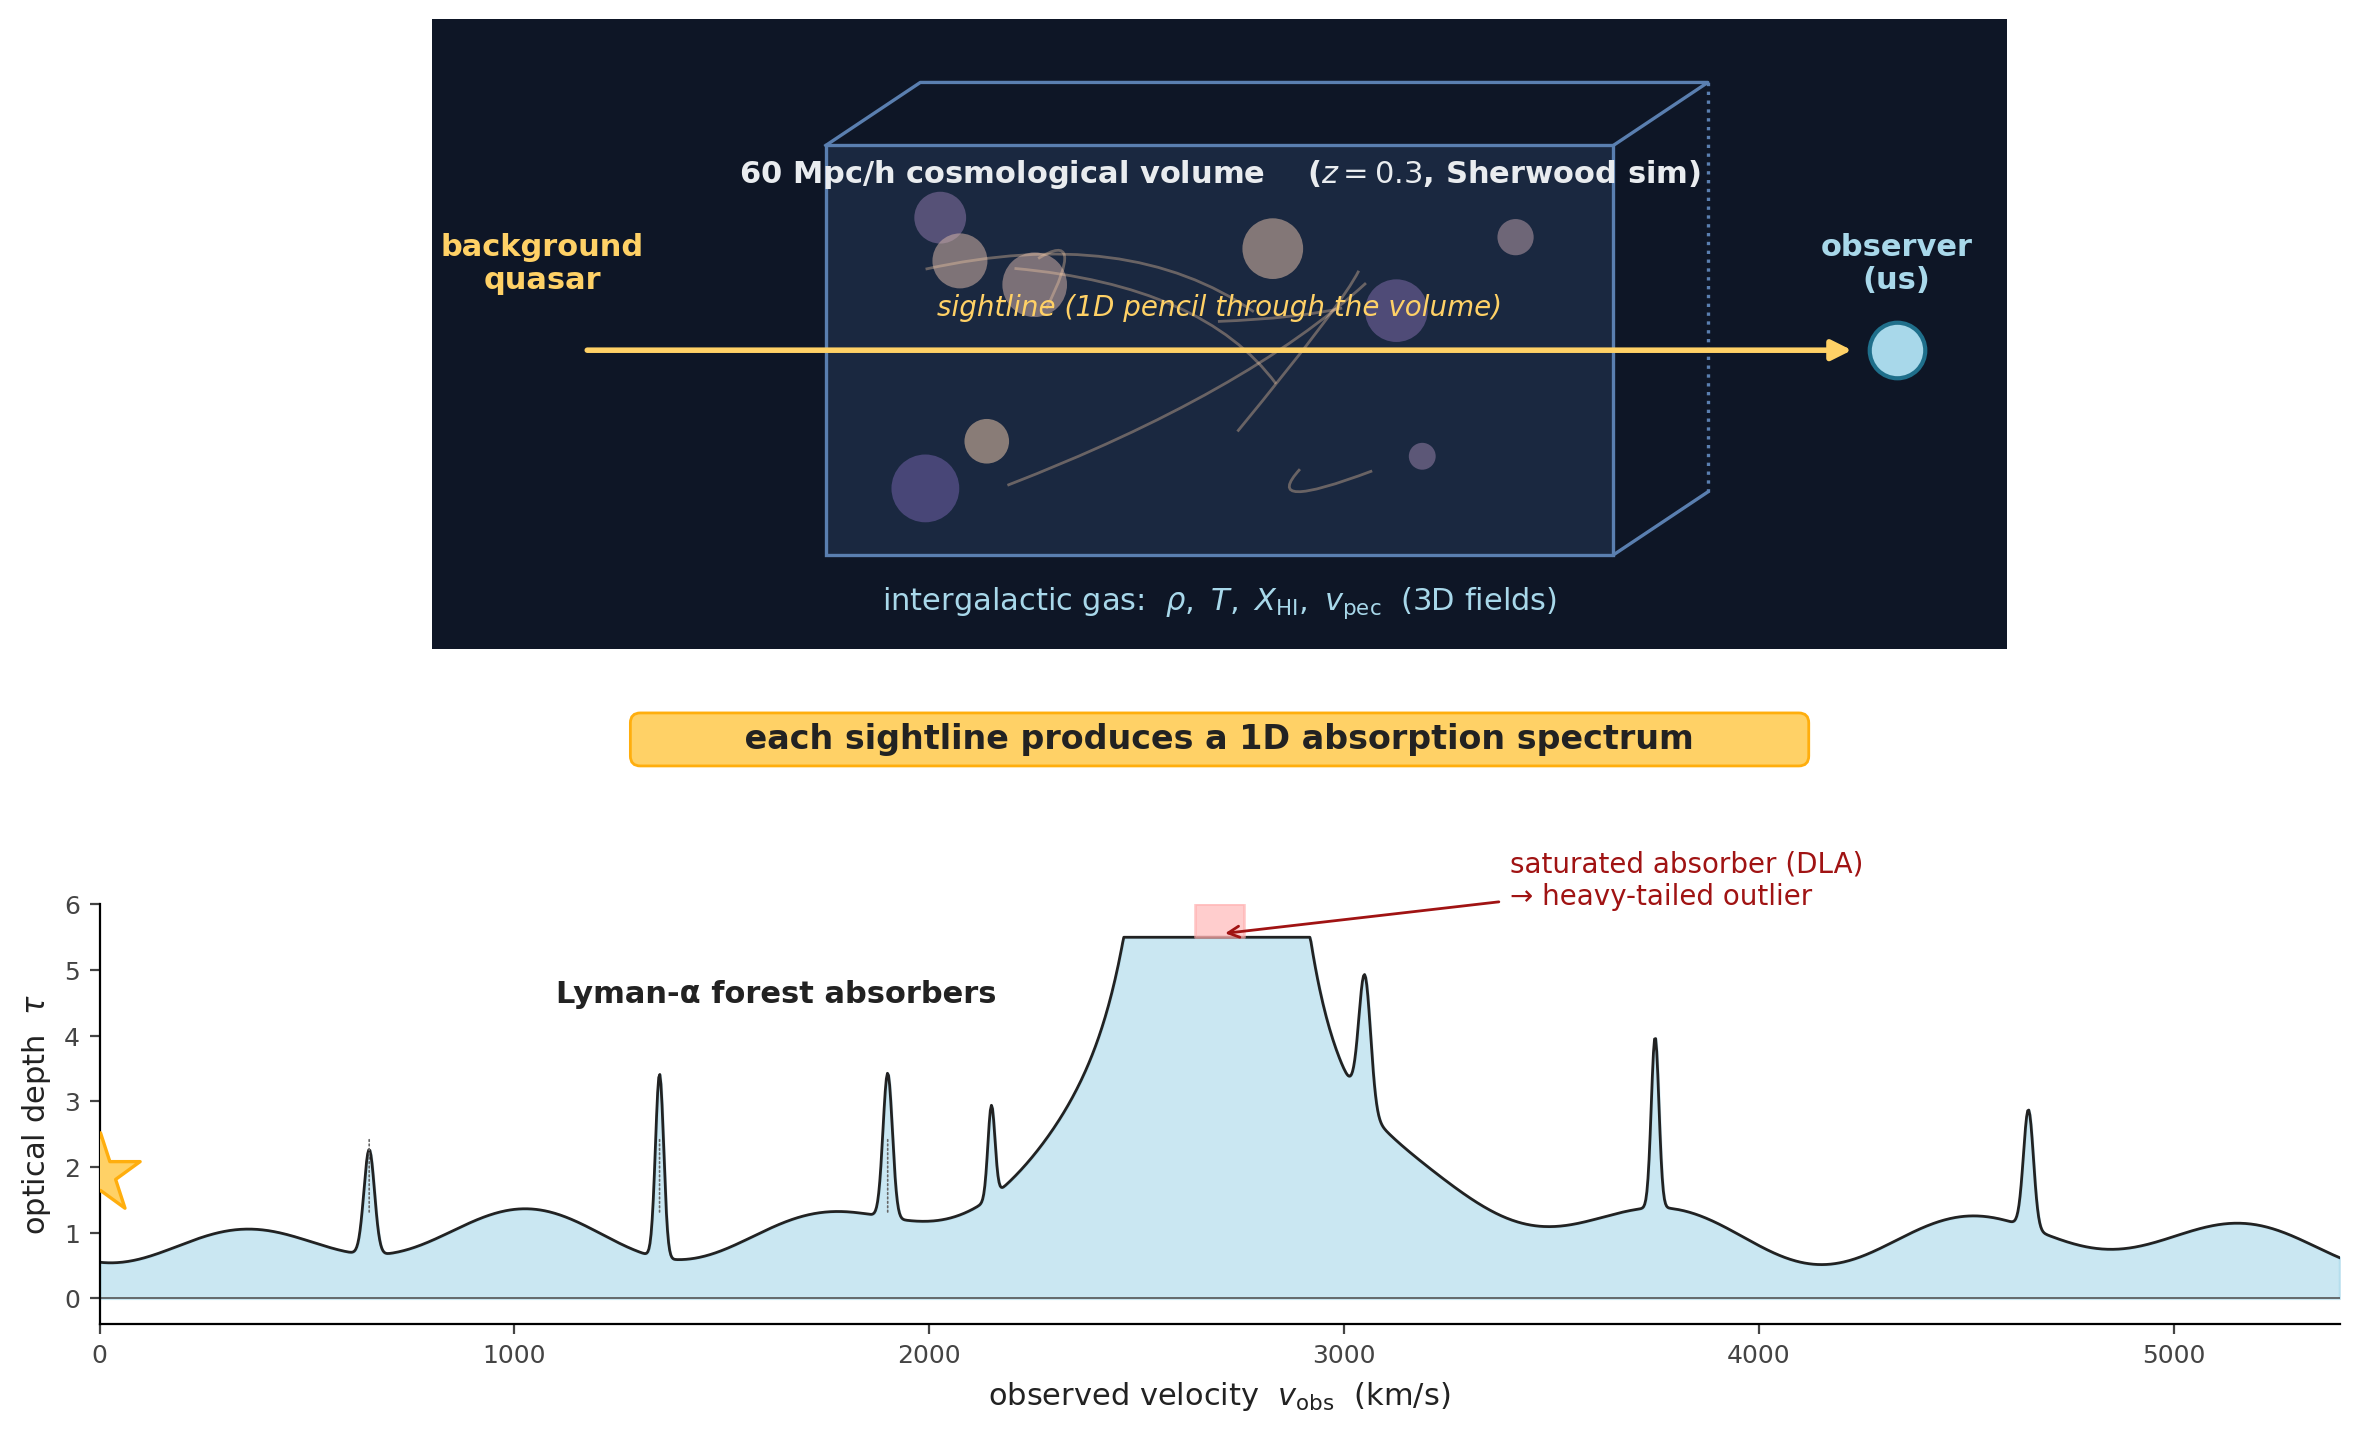
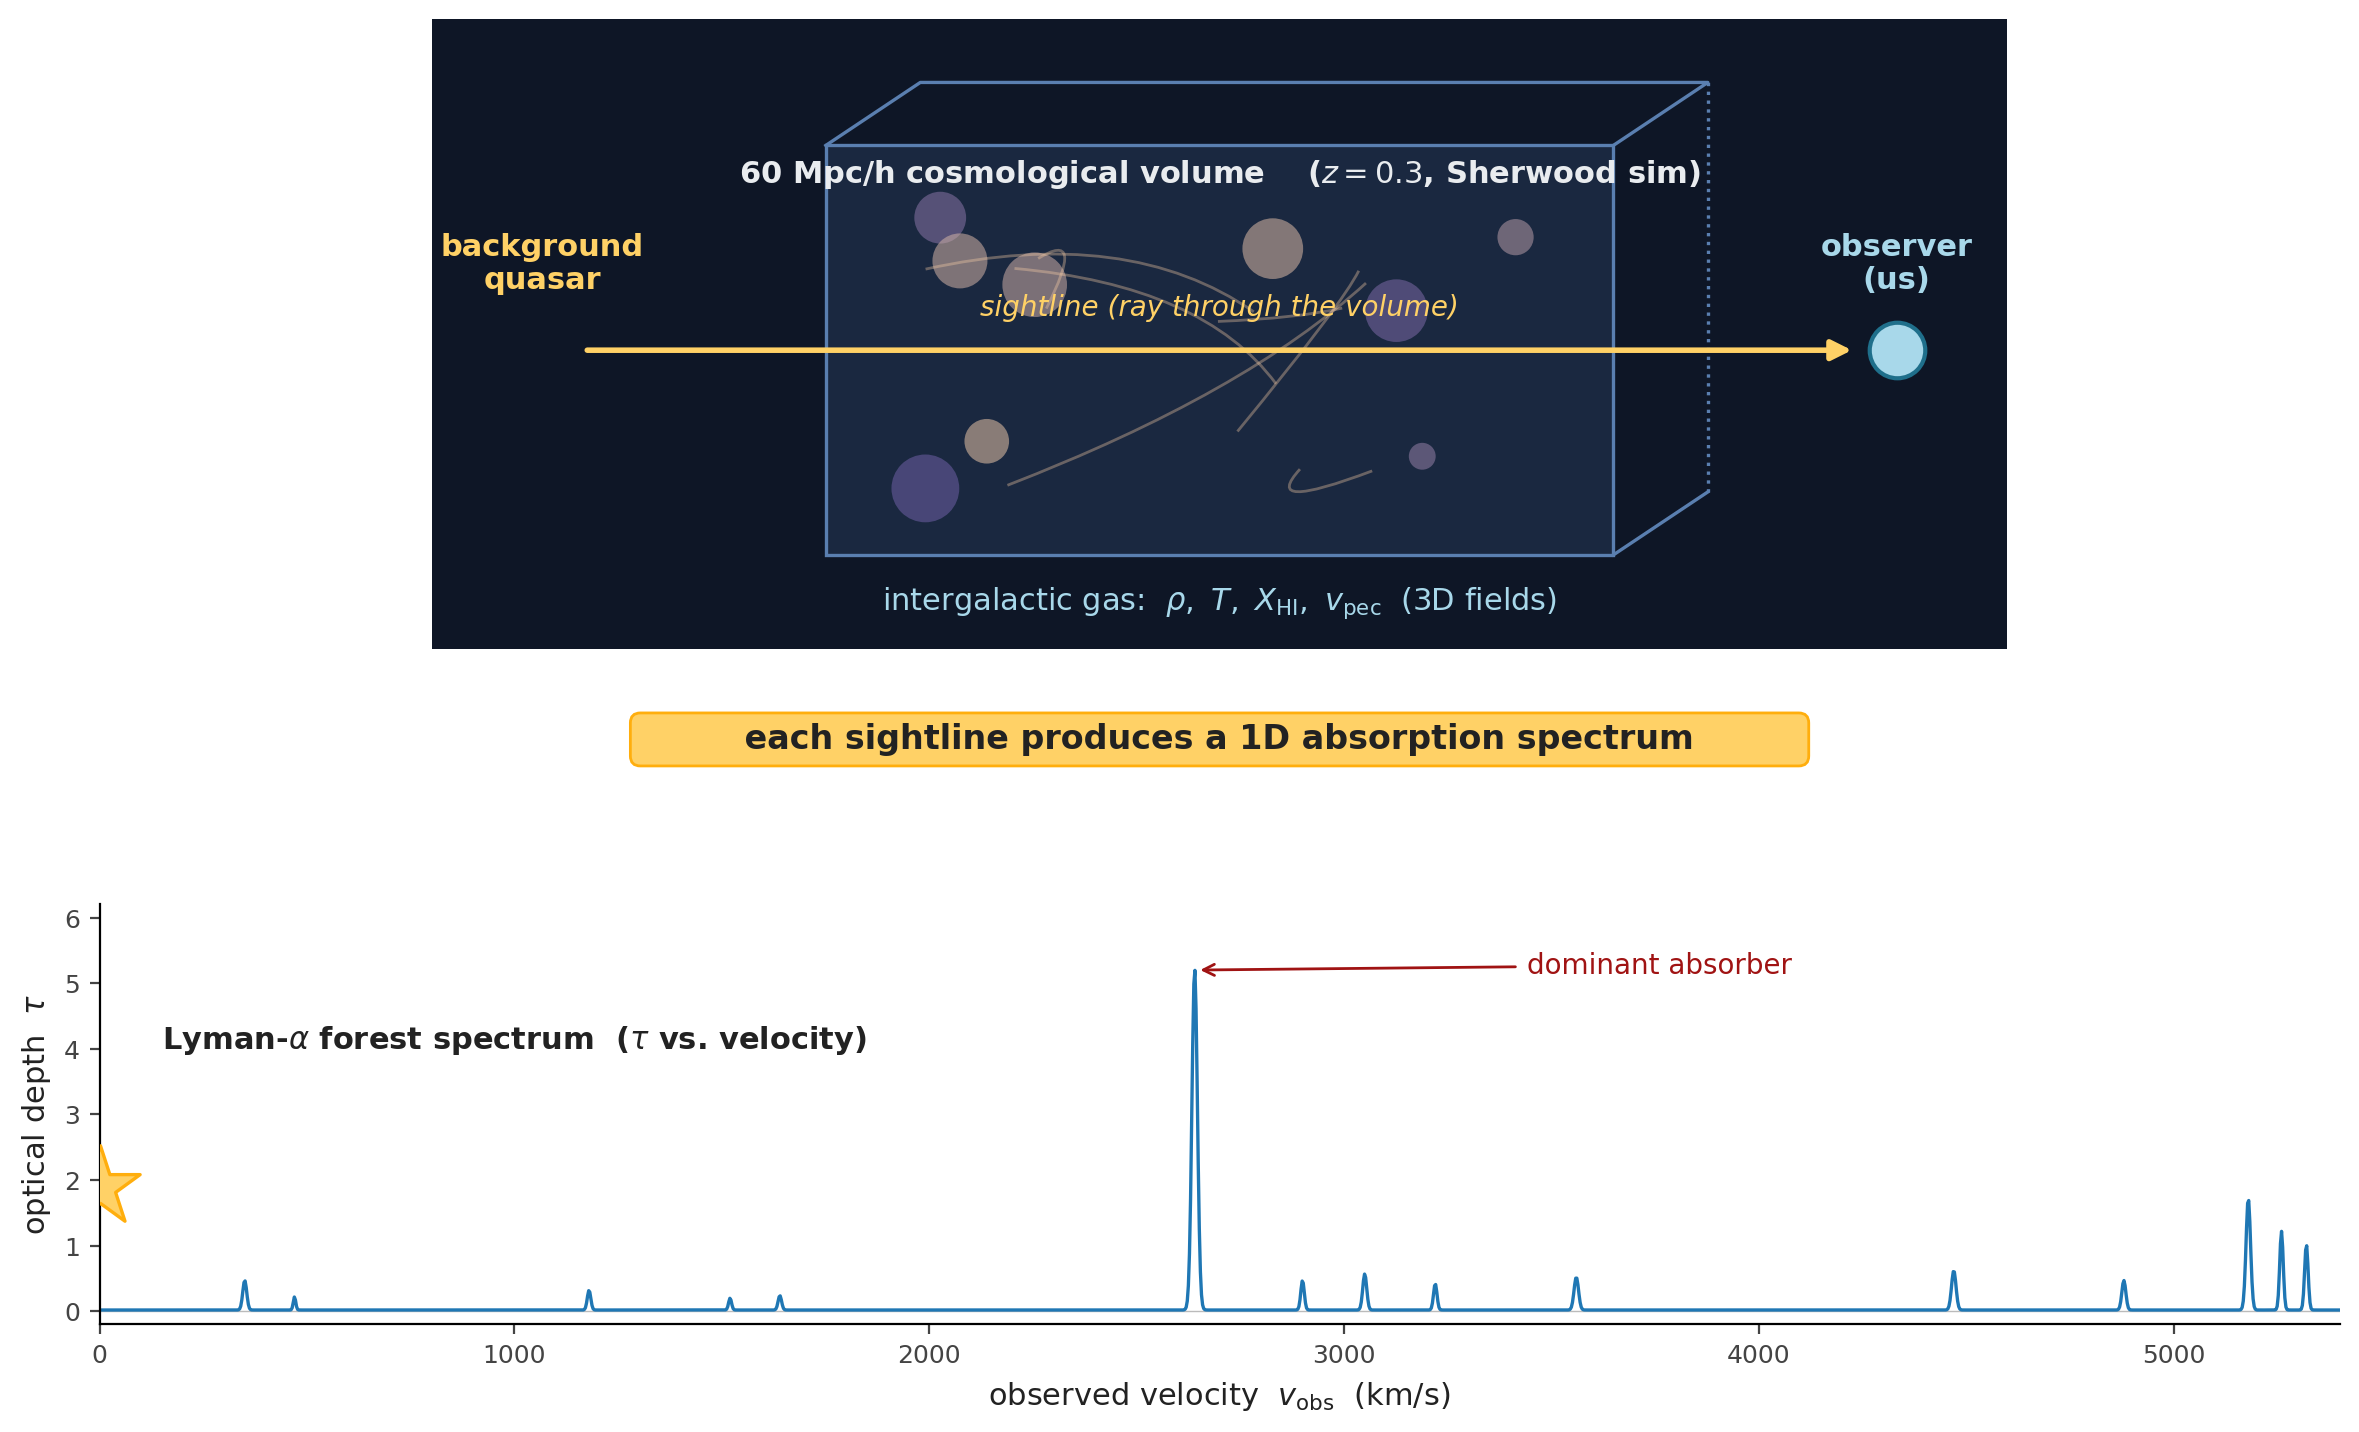
talk(v3): drop 'pencil' language; redraw τ(v) with realistic Sherwood structure
User feedback: 'Don't use analytical terms like 1D pencils. What the hell?
Just say ray.' Plus: τ(v) panel should match a real Sherwood spectrum
(sparse sharp peaks on near-zero baseline), not the hill-shaped cartoon.

- cosmological_setup.png: redrew the bottom panel from scratch. Now
  near-zero baseline (~0.02), 15 narrow Gaussian absorbers of varying
  heights, one dominant absorber at v_obs ≈ 2640 km/s, three-peak
  cluster on the right edge — matches the visual structure of an
  actual Sherwood τ(v) profile at z = 0.3.
- 'sightline (1D pencil through the volume)' → 'sightline (ray through
  the volume)' in the figure annotation.
- Slide 2 caption + speaker notes: 'pencils' / 'pencil through 3D
  structure' replaced with 'sightline' / 'ray' throughout.

diff --git a/scripts/make_cosmological_setup_fig.py b/scripts/make_cosmological_setup_fig.py
@@ -34,7 +34,7 @@ ax_top.axis("off")
 # Bottom axes: 1D Lyman-alpha forest spectrum
 ax_bot = fig.add_axes([0.10, 0.10, 0.80, 0.28])
 ax_bot.set_xlim(0, 5400)         # km/s, full Sherwood range
-ax_bot.set_ylim(-0.4, 6.0)
+ax_bot.set_ylim(-0.2, 6.2)
 
 # -----------------------------------------------------------------------------
 # Top panel: cosmological volume + sightline
@@ -111,7 +111,7 @@ ax_top.text(ox, oy + 0.55, "observer\n(us)",
             ha="center", va="center", fontsize=11,
             color="#a8d8ea", fontweight="bold", zorder=7)
 
-# Sightline (yellow, with arrowhead at observer)
+# Sightline (yellow ray, with arrowhead at observer)
 sight_y = qy
 ax_top.add_patch(FancyArrowPatch(
     (qx + 0.25, qy), (ox - 0.25, oy),
@@ -119,7 +119,7 @@ ax_top.add_patch(FancyArrowPatch(
     linewidth=2.0, color="#ffd166", zorder=5,
 ))
 ax_top.text((qx + ox) / 2, sight_y + 0.18,
-            "sightline (1D pencil through the volume)",
+            "sightline (ray through the volume)",
             ha="center", va="bottom", fontsize=10,
             color="#ffd166", style="italic", zorder=7)
 
@@ -134,61 +134,52 @@ ax_top.text(box_x0 + box_w / 2, box_y0 - 0.30,
             fontsize=11, color="#a8d8ea", zorder=7)
 
 # -----------------------------------------------------------------------------
-# Bottom panel: synthetic Lyman-alpha forest spectrum
+# Bottom panel: τ(v) spectrum with realistic Sherwood-style structure
+#
+# The real Lyman-α forest at z = 0.3 is "thin": sparse, sharp, narrow
+# absorbers on a near-zero baseline (the universe has expanded, gas is
+# clumpy, most of the LOS is empty). A single dominant absorber dwarfs
+# the rest. This panel matches that profile.
 # -----------------------------------------------------------------------------
 v = np.linspace(0, 5400, 2048)
+tau = np.full_like(v, 0.02)  # near-zero baseline
 
-# Synthetic absorption profile:
-#   - dense low-tau forest baseline (smooth ~ 0.2–1.5)
-#   - a handful of narrow forest absorbers
-#   - one saturated DLA
-forest_baseline = 0.4 + 0.6 * np.abs(np.sin(v / 220.0))**2 \
-    + 0.3 * np.cos(v / 410.0 + 0.9)**2
-
-# Narrow forest absorbers
+# Narrow absorbers: (center_v in km/s, peak τ, FWHM in km/s)
 absorbers = [
-    (650, 0.4, 18),
-    (1350, 0.7, 14),
-    (1900, 0.55, 16),
-    (2150, 0.35, 12),
-    (3050, 0.5, 20),
-    (3750, 0.65, 13),
-    (4650, 0.45, 17),
+    (350,  0.45, 16),
+    (470,  0.20, 10),
+    (1180, 0.30, 14),
+    (1520, 0.18, 12),
+    (1640, 0.22, 14),
+    (2640, 5.20, 22),   # dominant absorber
+    (2900, 0.45, 14),
+    (3050, 0.55, 16),
+    (3220, 0.40, 14),
+    (3560, 0.50, 18),
+    (4470, 0.60, 18),
+    (4880, 0.45, 16),
+    (5180, 1.70, 18),   # late cluster, three close peaks
+    (5260, 1.20, 14),
+    (5320, 1.00, 14),
 ]
-tau = forest_baseline.copy()
-for v0, amp, sigma in absorbers:
-    tau += 4.0 * amp * np.exp(-((v - v0) / sigma) ** 2)
+for v0, peak, fwhm in absorbers:
+    sigma = fwhm / 2.355
+    tau += peak * np.exp(-((v - v0) / sigma) ** 2)
 
-# One saturated absorber (DLA)
-v_dla = 2700
-tau_dla = 6.0 / (1.0 + ((v - v_dla) / 28.0) ** 2)
-tau = tau + tau_dla * 50.0  # cap visualized below
+ax_bot.plot(v, tau, color="#1f77b4", linewidth=1.2)
+ax_bot.axhline(y=0, color="#bbb", linewidth=0.5, zorder=0)
 
-# Cap for display
-display_cap = 5.5
-tau_display = np.clip(tau, 0, display_cap)
-
-ax_bot.plot(v, tau_display, color="#222", linewidth=1.0)
-ax_bot.fill_between(v, 0, tau_display, color="#a8d8ea", alpha=0.6)
-ax_bot.axhline(y=0, color="#555", linewidth=0.6)
-
-# Mark the DLA cap
-ax_bot.fill_between(v[(v > v_dla - 60) & (v < v_dla + 60)],
-                    display_cap, display_cap + 0.5,
-                    color="#ffadad", alpha=0.6, zorder=4)
-ax_bot.annotate("saturated absorber (DLA)\n→ heavy-tailed outlier",
-                xy=(v_dla, display_cap + 0.05),
-                xytext=(v_dla + 700, display_cap + 0.5),
+# Annotate the dominant absorber
+v_dom = 2640
+ax_bot.annotate("dominant absorber",
+                xy=(v_dom, 5.20),
+                xytext=(v_dom + 800, 5.15),
                 fontsize=10, color="#a01313",
                 arrowprops=dict(arrowstyle="->", color="#a01313", lw=1.0),
                 zorder=5)
 
-# Annotate forest absorbers
-for v0, _, _ in absorbers[:3]:
-    ax_bot.annotate("", xy=(v0, 1.2), xytext=(v0, 2.5),
-                    arrowprops=dict(arrowstyle="-", color="#666",
-                                    lw=0.6, ls=":"))
-ax_bot.text(1100, 4.5, "Lyman-α forest absorbers",
+# Caption — what the field is called
+ax_bot.text(150, 4.0, r"Lyman-$\alpha$ forest spectrum  ($\tau$ vs. velocity)",
             fontsize=11, color="#222", fontweight="bold")
 
 # Axes

diff --git a/scripts/make_defense_talk_pptx.py b/scripts/make_defense_talk_pptx.py
@@ -187,7 +187,7 @@ add_image(s2, COSMO_FIG, left=Inches(0.4), top=Inches(0.95), width=Inches(12.5))
 # A short caption strip below
 add_text(
     s2,
-    "Each spectrum is a 1D pencil through a 3D scene  —  thousands of pencils "
+    "Each sightline gives us one absorption spectrum  —  thousands of rays "
     "is what we have to reconstruct the volume.",
     left=Inches(0.5), top=Inches(6.65), width=Inches(12.3), height=Inches(0.45),
     size=14, color=NAVY, italic=True, align=PP_ALIGN.CENTER,
@@ -218,9 +218,9 @@ optical-depth profile as a function of observed velocity. Most of it is the
 fraction of sightlines hit dense neutral systems and saturate completely;
 those are the heavy-tailed outliers.
 
-Surveys like DESI will give us millions of these spectra. Each one is a 1D
-pencil through 3D structure. The reconstruction question is: how do we
-recover the 3D fields from these pencils?""")
+Surveys like DESI will give us millions of these spectra — one ray, one
+spectrum. The reconstruction question is: how do we recover the 3D fields
+from a few hundred to a few thousand of these rays?""")
 
 
 # =============================================================================